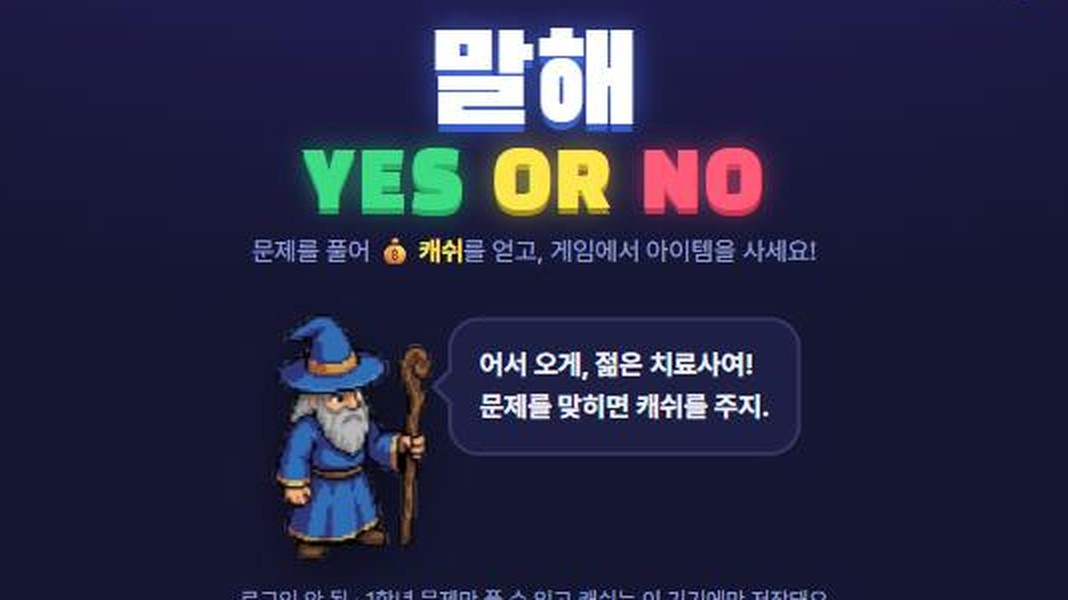
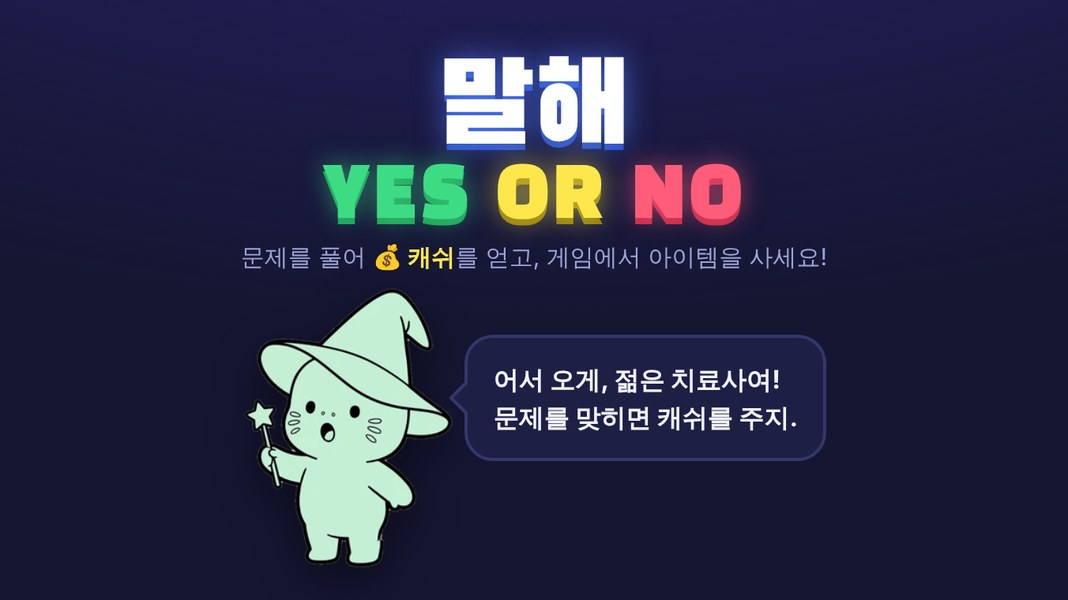
YES OR NO: 3D 해부학 메뉴 빼기 · 문제 근육 빨간색 · 문제 화면 한 화면에(스크롤 없이) · 허브 그림을 새 첫 화면(공룡)으로
Claude-Session: https://claude.ai/code/session_016N5CbGtSM2nN483PhZY5dg

Changed region(s): [[0.2163, 0.48, 0.7725, 1.0], [0.2163, 0.03, 0.7725, 0.45]]

diff --git a/games/YesOrNo/index.html b/games/YesOrNo/index.html
@@ -217,6 +217,22 @@ button { font: inherit; color: inherit; cursor: pointer; }
   .bubble { font-size: 15px; max-width: 220px; }
   .mode em { font-size: 26px; }
 }
+
+/* ---------- 문제 화면을 한 화면에 (2026-11-27) ----------
+   그림 · 3D 칸이 남는 높이만 차지하고, 보기 4개 · 확인 버튼은 스크롤 없이 보여요. */
+#lesson { height: 100dvh; min-height: 0; overflow-y: auto; }
+#lesson .v3, #lesson .fig { flex: 1 1 0; min-height: 150px; max-height: 440px; height: auto; display: flex; }
+#lesson .fig img { max-height: none; height: 100%; }
+#lesson .combo { height: 18px; margin-top: 2px; }
+#lesson .label { margin: 2px 0 0; }
+#lesson .ask { margin: 8px 0 10px; }
+#lesson .ask .wiz.dino { height: 78px; }
+#lesson .ask .bubble { margin-bottom: 14px; font-size: 16px; padding-top: 10px; padding-bottom: 10px; }
+#lesson .choices { gap: 8px; padding-bottom: 12px; }
+#lesson .choice { padding: 10px 16px; }
+#lesson .foot { padding-top: 12px; padding-bottom: calc(12px + env(safe-area-inset-bottom)); }
+@media (max-width: 560px) { #lesson .foot .in { flex-direction: row; } #lesson .foot .btn { width: auto; flex: 1; } }
+.modes { grid-template-columns: repeat(3, 1fr); }
 </style>
 </head>
 <body>
@@ -438,7 +454,7 @@ const MODES = [
   { id: "bone", ic: "🦴", name: "뼈대계", small: `그림 ${B.length}장 · ${B.reduce((s, b) => s + b.items.length, 0)}칸` },
   { id: "muscle", ic: "💪", name: "근육", small: `${M.length}개 · 이는곳 · 닿는곳` },
   { id: "mix", ic: "🎲", name: "섞어서", small: "뼈 + 근육" },
-  { id: "3d", ic: "🧊", name: "3D 해부학", small: "번호 과녁 · 빛나는 근육", isNew: true },
+  // 🧊 3D 해부학 단독 메뉴는 뺐어요 (2026-11-27). 뼈 · 근육 문제 안에서는 3D 가 그대로 나와요.
 ];
 
 /* ===== 3D 해부학 문제 (anat3d.js · 2026-11-27) =====
@@ -510,7 +526,7 @@ function view3d(q) {
   if (p[0] === "t") { YN3D.bones(q.three.bones, q.three.ask); return true; }
   if (p[0] === "m" && M3[+p[1]] && !p[2].startsWith("r_")) {
     YN3D.muscle(M3[+p[1]]);
-    if (p[2] === "img") q.q = "과녁이 가리키는\n<mark>빛나는 근육</mark>의 이름은?";
+    if (p[2] === "img") q.q = "과녁이 가리키는\n<mark>빨간 근육</mark>의 이름은?";
     return true;
   }
   return false;

diff --git a/highgo.html b/highgo.html
@@ -834,22 +834,22 @@ const APPS = [
   },
   {
     title: "말해 YES OR NO",
-    emoji: "🧙",
+    emoji: "🦕",
     category: "quiz",
     tag: "1학년",
     year: "2026",
     who: "PTX+AI · 삼공육",
-    desc: "마법사 할아버지와 한 문제씩! 맞힐 때마다 💰 캐쉬를 받아서 게임(골프 등)에서 아이템을 사요. 1학년: 뼈대계 그림 16장 · 근육 100개 (이는곳 · 닿는곳 · 신경지배 · 작용 · 한글/영어). 2 · 3학년 문제는 준비 중이에요.",
+    desc: "마법사 공룡과 한 문제씩! 맞힐 때마다 💰 캐쉬를 받아서 게임(골프 등)에서 아이템을 사요. 1학년: 뼈대계 그림 16장 · 근육 100개 (이는곳 · 닿는곳 · 신경지배 · 작용 · 한글/영어). 2 · 3학년 문제는 준비 중이에요.",
     url: "games/YesOrNo/index.html",
     glow: "#4f7dff",
-    thumb: "thumbs/yesno.jpg",   // 게임 첫 화면 캡처 (2026-11-26)
+    thumb: "thumbs/yesno.jpg",   // 게임 첫 화면 캡처 (2026-11-27 · 공룡 마법사)
     hero: "thumbs/yesno.jpg",
     heroBig: true,
     facts: [["🦴", "뼈 221칸"], ["💪", "근육 100개"], ["💰", "캐쉬 공용"]]
   },
   {
     title: "말해 YES OR NO — 2 · 3학년",
-    emoji: "🧙",
+    emoji: "🦕",
     category: "soon",
     thumb: "thumbs/yesno.jpg",   // 1학년 게임 첫 화면 (공개 예정 카드라 회색으로 보여요)
     desc: "2학년 · 3학년 문제 추가 예정"

diff --git a/games/YesOrNo/anat3d.js b/games/YesOrNo/anat3d.js
@@ -54,7 +54,7 @@ const View = {
       M.bone = new T.MeshStandardMaterial({ color: 0xf1e6cc, roughness: 0.55 });
       M.dimBone = new T.MeshStandardMaterial({ color: 0xcfc4ad, roughness: 0.8, transparent: true, opacity: 0.22, depthWrite: false });
       M.musc = new T.MeshStandardMaterial({ color: 0x8c4a44, roughness: 0.7, transparent: true, opacity: 0.28, depthWrite: false });
-      M.hi = new T.MeshStandardMaterial({ color: 0xffe27a, roughness: 0.4, emissive: 0xffb21a, emissiveIntensity: 0.8 });
+      M.hi = new T.MeshStandardMaterial({ color: 0xff2a2a, roughness: 0.4, emissive: 0xe0101a, emissiveIntensity: 0.8 });   // 문제 근육은 빨갛게 (2026-11-27 · 예전 노랑)
       center = new T.Vector3(0, 1.2, 0); want = center.clone();
       await Promise.all([load('skeleton'), load('muscle')]);
       box.addEventListener('pointerdown', e => { drag = { x: e.clientX, th: theta }; spin = false; box.setPointerCapture(e.pointerId); });

diff --git a/sw.js b/sw.js
@@ -9,7 +9,7 @@
  * its body with a worker that clears CACHE and calls self.registration.unregister(),
  * and drop the register line in highgo.html.
  */
-const CACHE = 'samgongyuk-v94';   // bump on every game update so phones drop the old copy
+const CACHE = 'samgongyuk-v95';   // bump on every game update so phones drop the old copy
 const HUB = /\/(highgo\.html|index\.html)?$/;
 
 self.addEventListener('install', () => self.skipWaiting());
